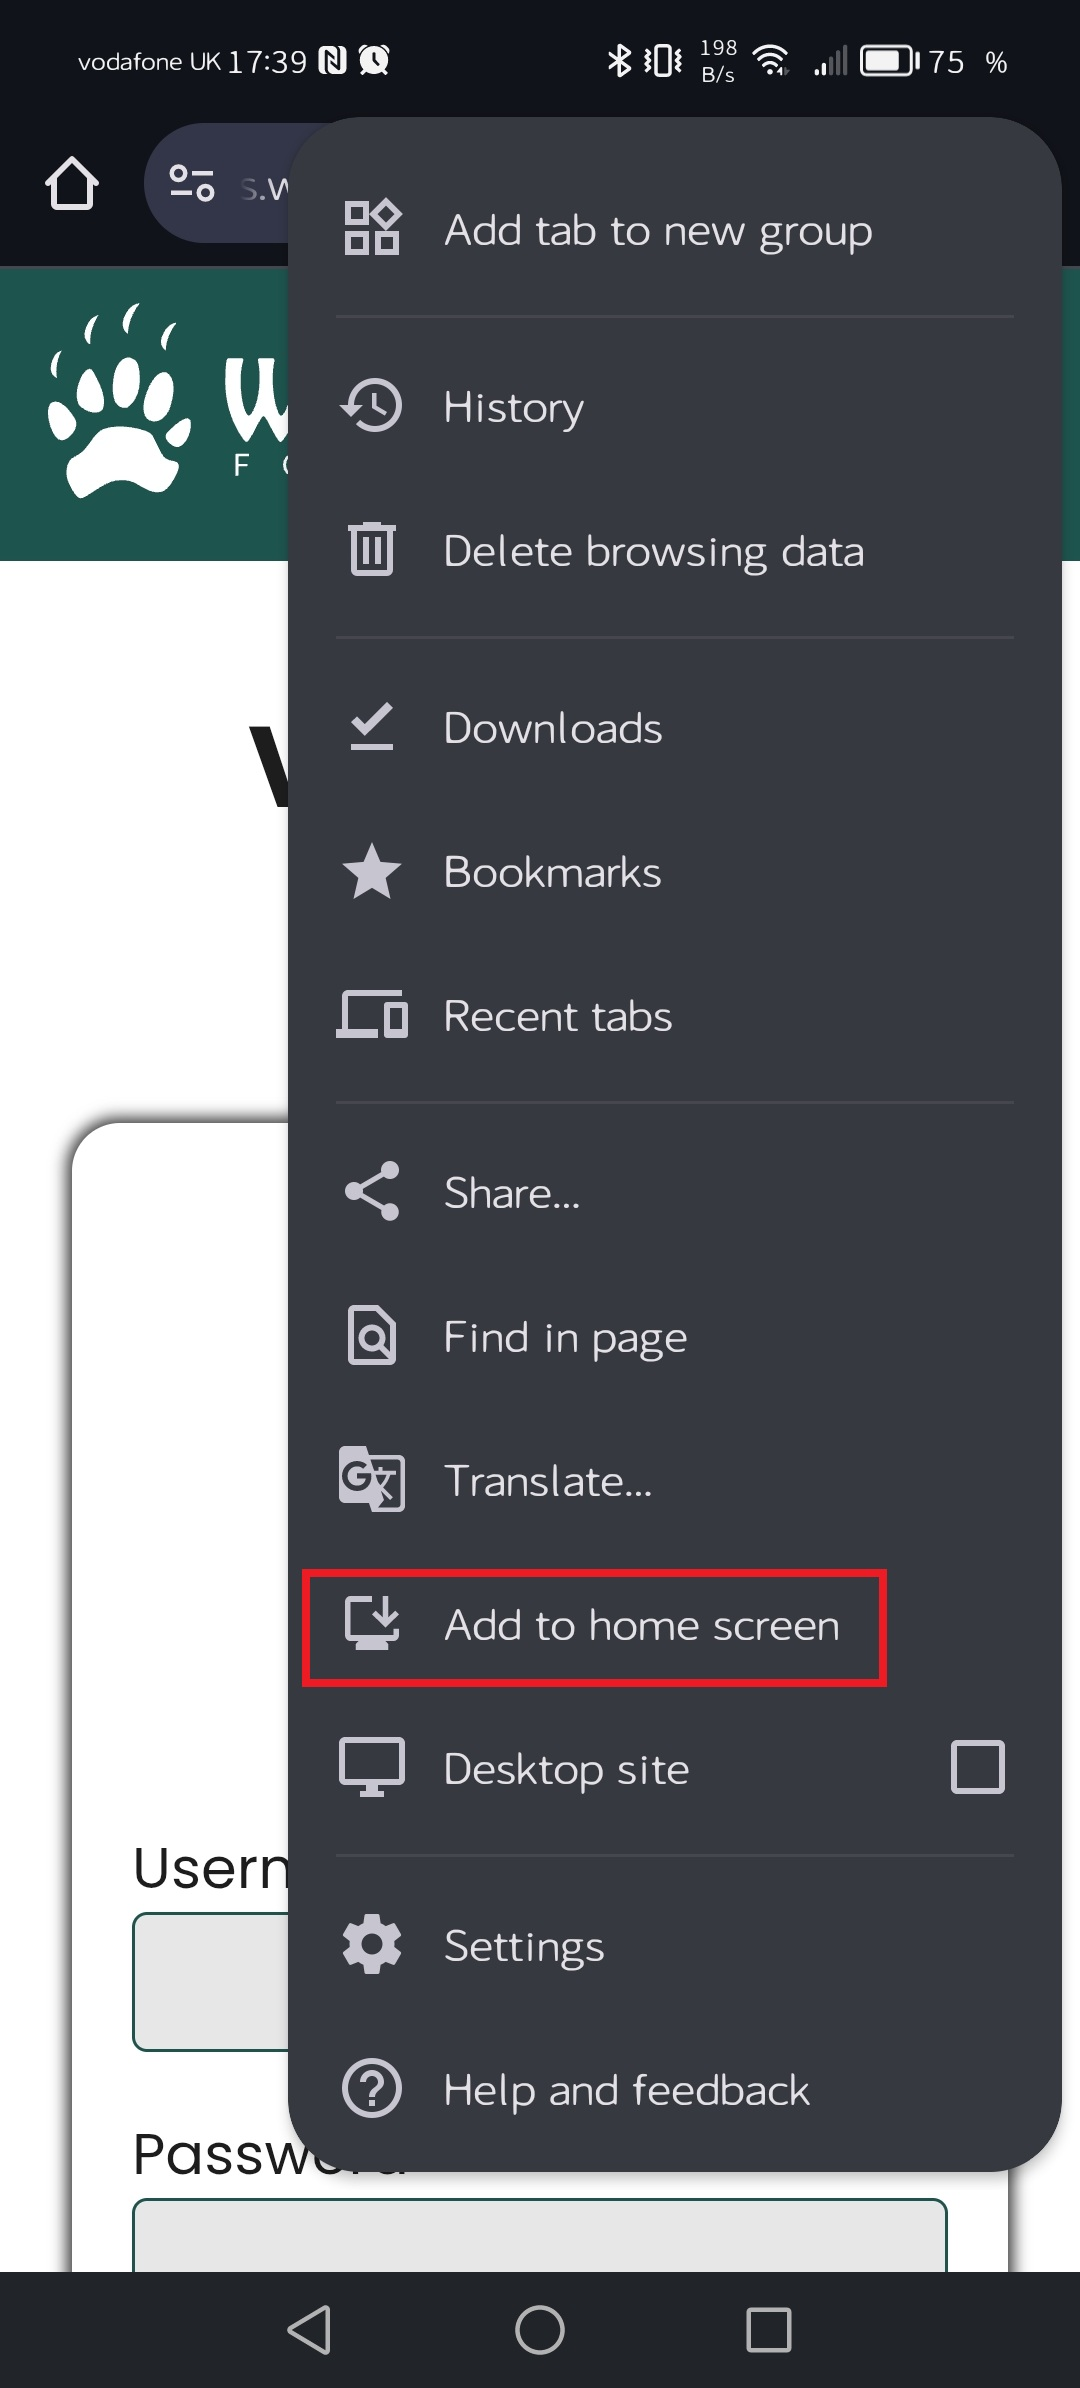
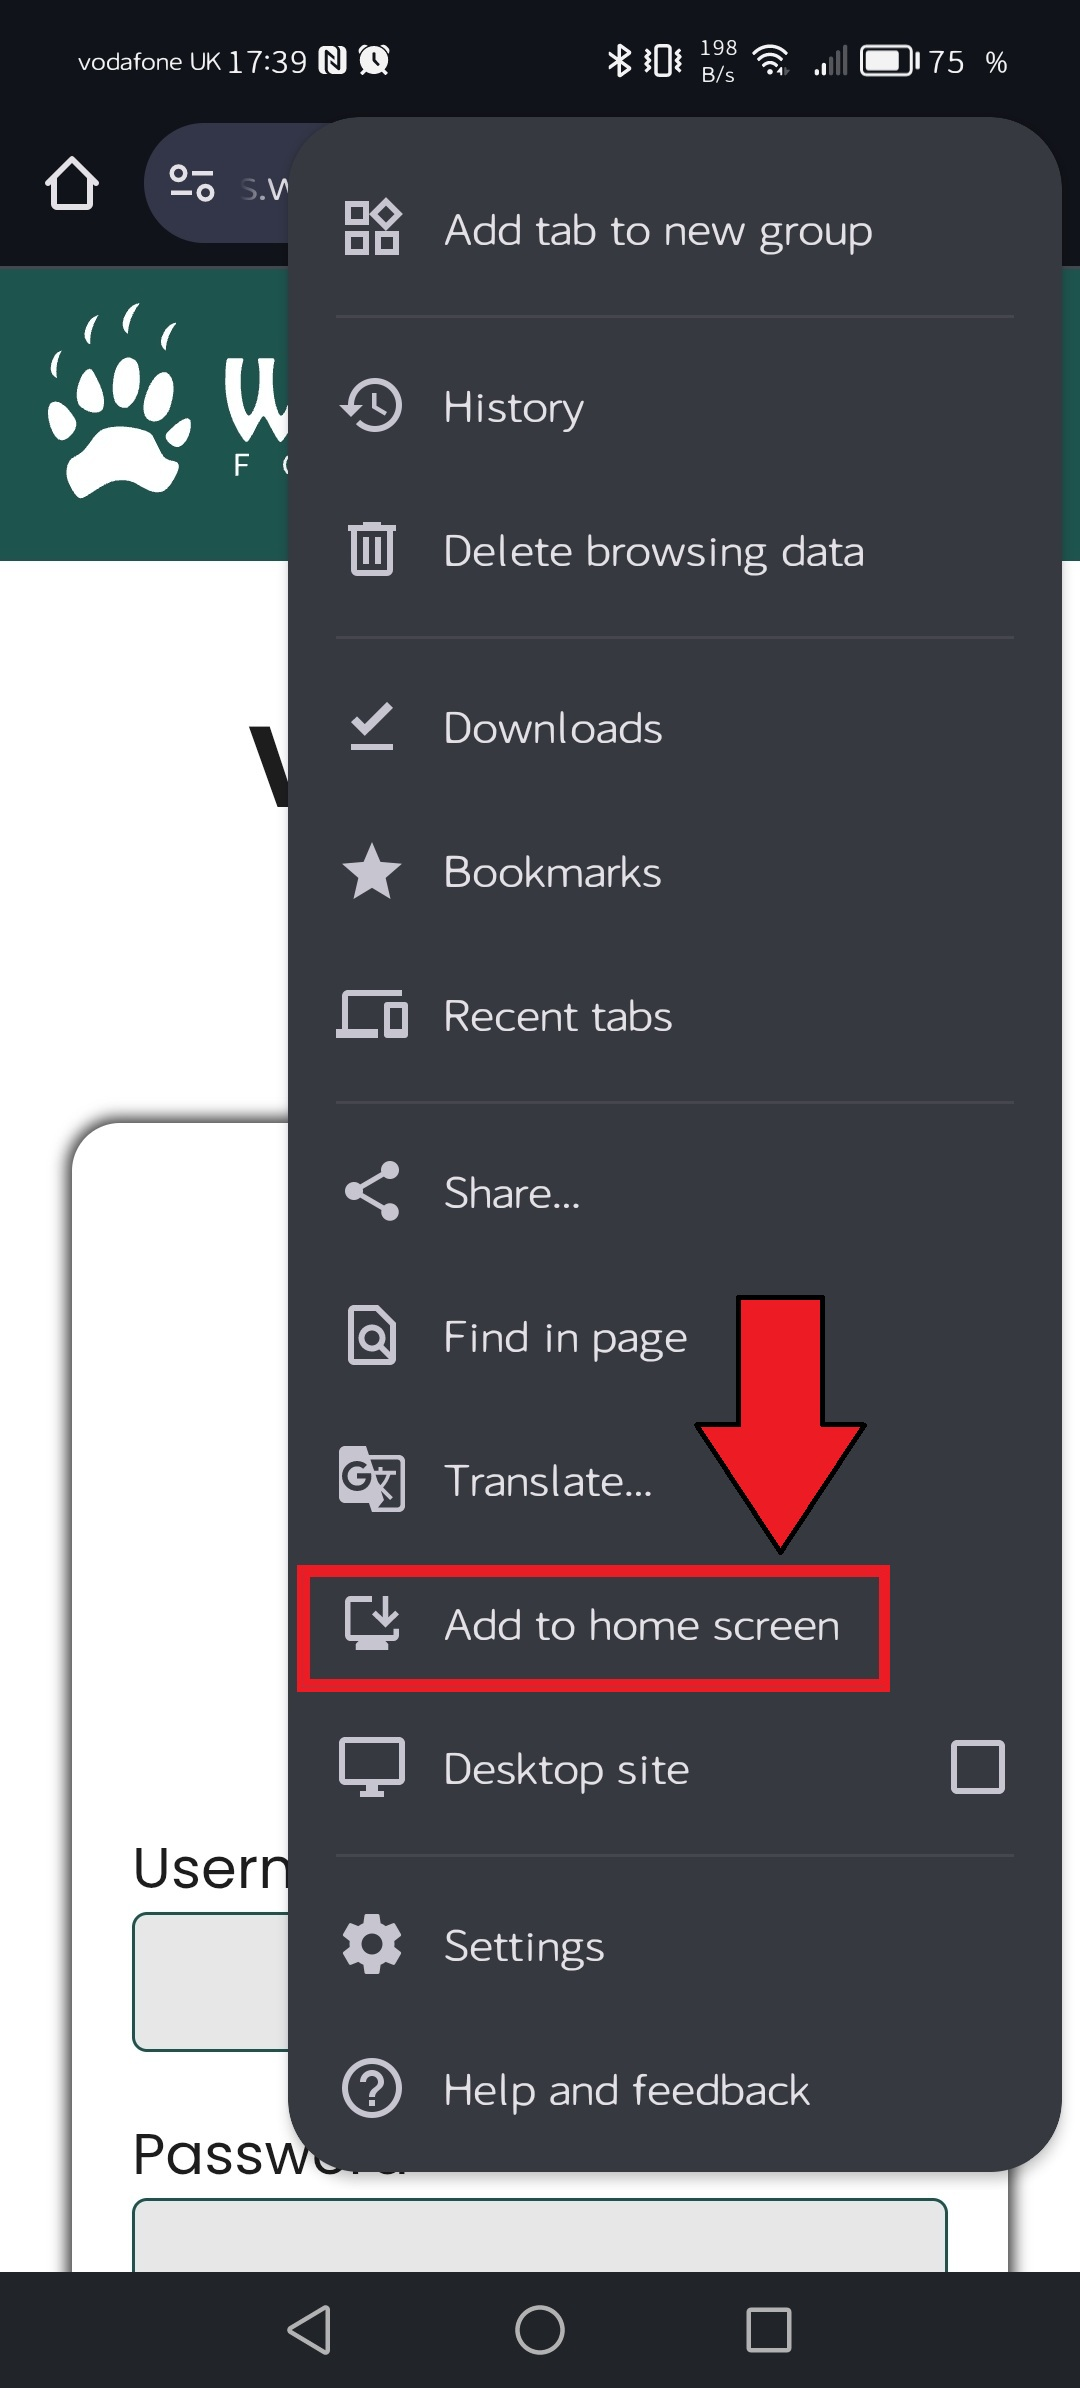
Extra installation instructions (on pictures)

Changed region(s): [[0.6417, 0.5268, 0.7944, 0.6508], [0.7944, 0.6508, 0.825, 0.7127], [0.275, 0.6508, 0.3056, 0.7127]]

diff --git a/portal/src/app/installation/component.html b/portal/src/app/installation/component.html
@@ -36,10 +36,7 @@
   instructions below:
 </p>
 <div class="pics">
-  <!--
-  <img src="images/installation/web/one.jpeg" />
-  <img src="images/installation/web/two.jpeg" />
-  <img src="images/installation/web/three.jpeg" />
-  -->
+  <img src="images/installation/web/one.png" />
+  <img src="images/installation/web/two.png" />
 </div>
 }

diff --git a/portal/src/app/installation/component.scss b/portal/src/app/installation/component.scss
@@ -12,6 +12,13 @@
   }
 }
 
+@media screen and (min-width: 800px) {
+  .pics img {
+    min-width: 30rem;
+    max-width: 30rem;
+  }
+}
+
 h1 {
   margin-bottom: 1rem;
 }
